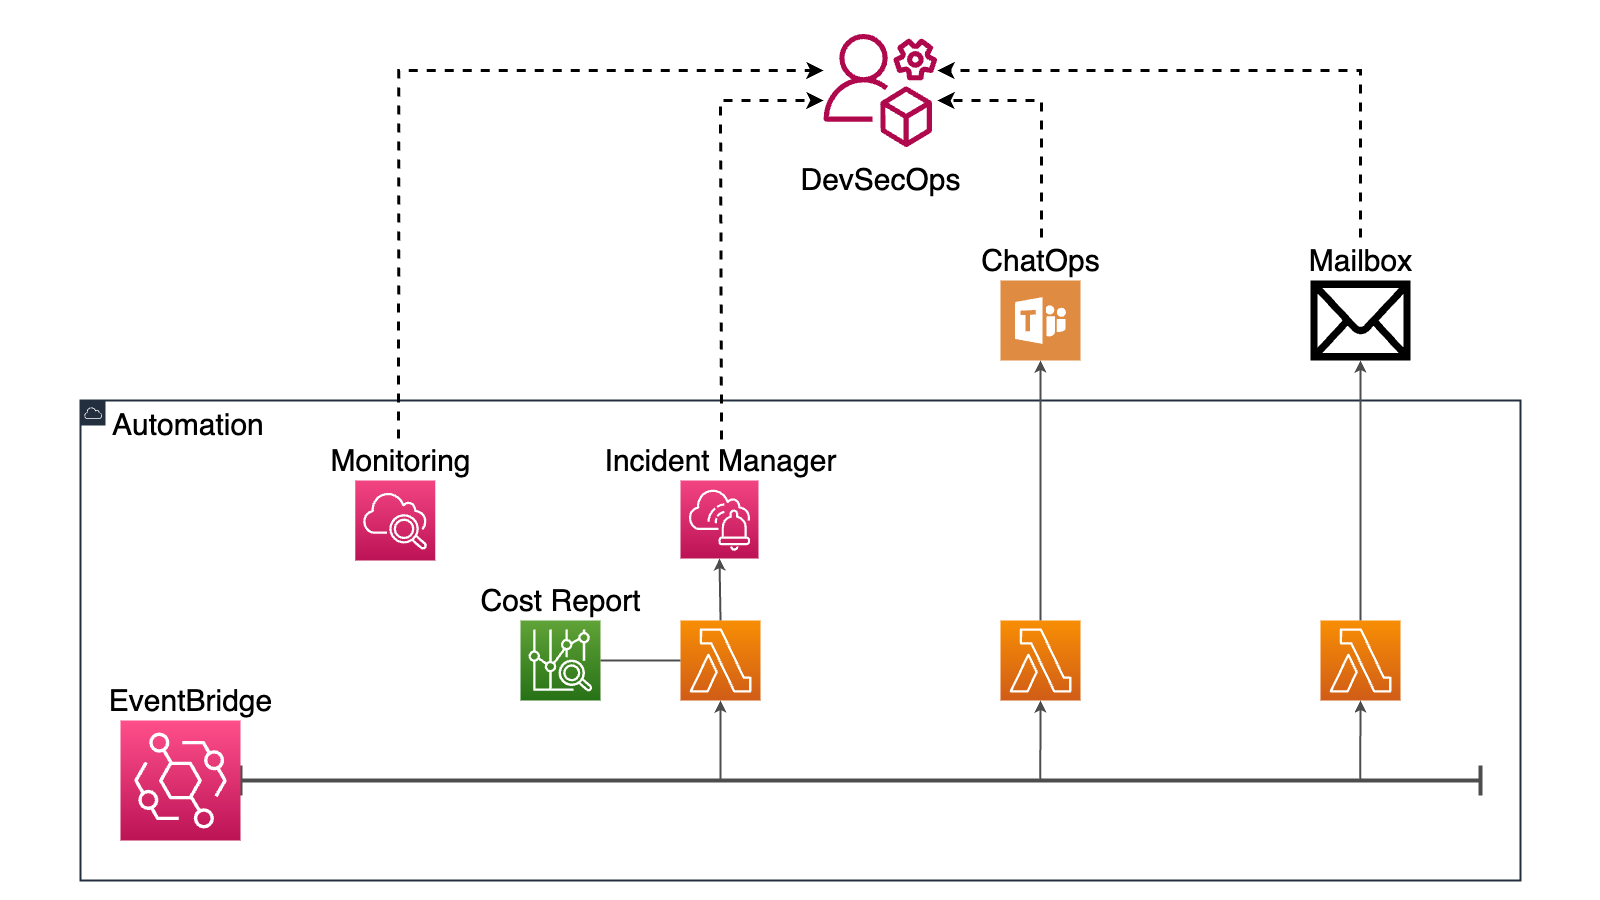
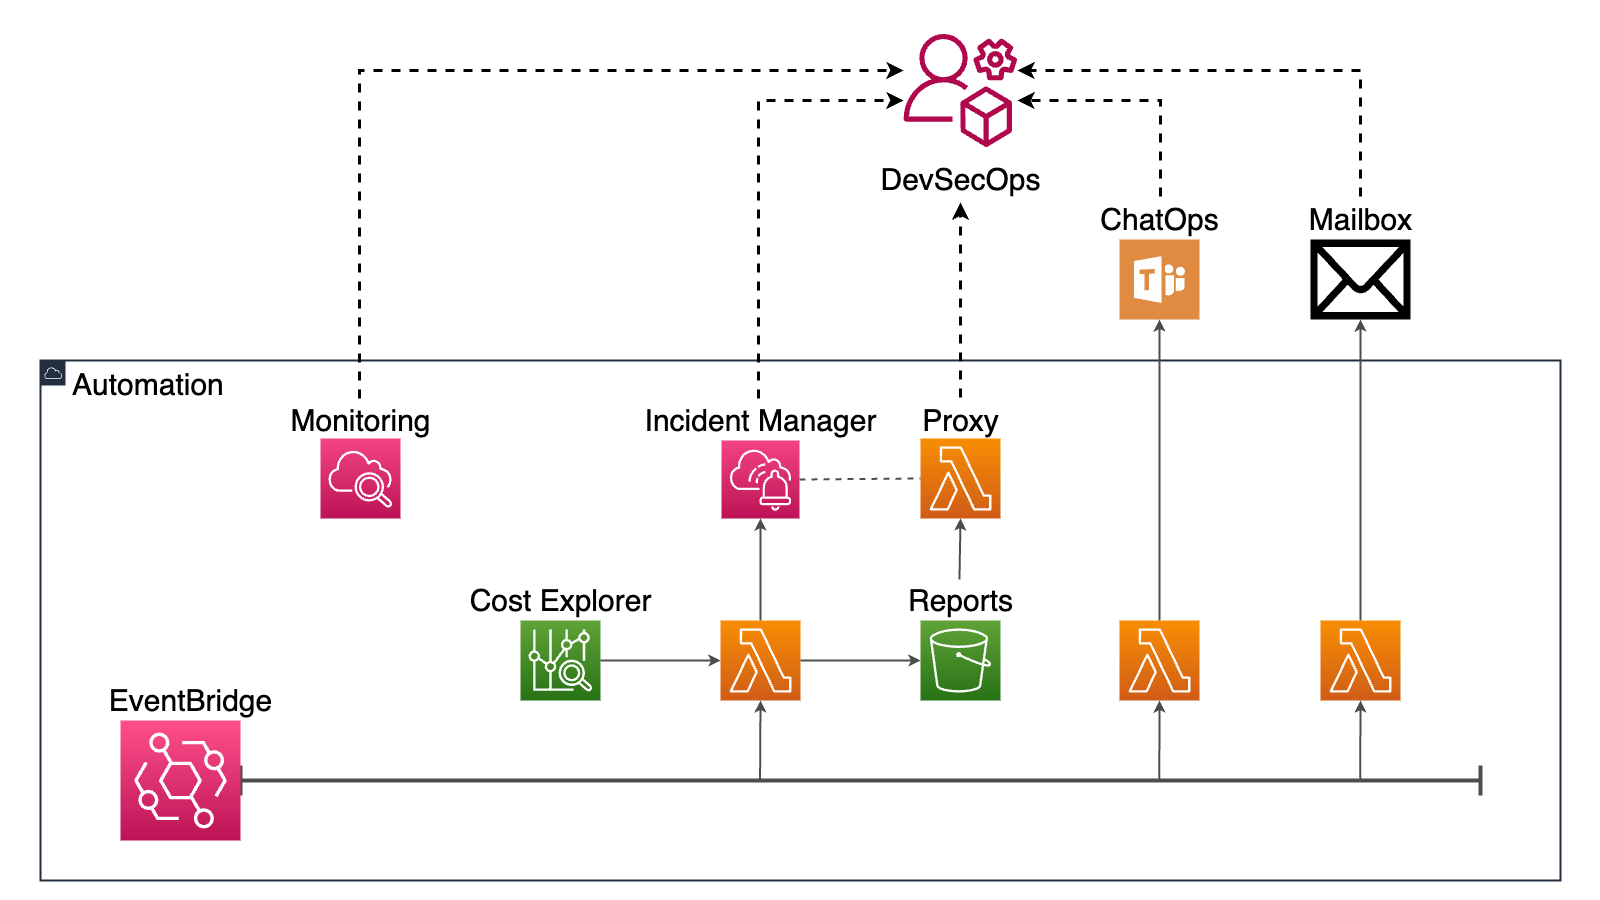
refine feature file and architectural diagram for the management of exceptions -- #76

diff --git a/resources/cockpit_construct.py b/resources/cockpit_construct.py
@@ -40,9 +40,10 @@ class Cockpit(Construct):
             self.get_text_label_widget())
 
         self.cockpit.add_widgets(
-            self.get_transactions_by_label_widget(),
+            self.get_transactions_by_cost_center_widget(),
             self.get_maintenance_transactions_by_account_widget(),
-            self.get_onboarding_transactions_by_account_widget())
+            self.get_onboarding_transactions_by_account_widget(),
+            self.get_exceptions_by_label_widget())
 
         self.cockpit.add_widgets(
             self.get_events_by_state_widget(),
@@ -58,6 +59,13 @@ class Cockpit(Construct):
         return TextWidget(markdown=toggles.automation_cockpit_markdown_text,
                           height=2,
                           width=24)
+
+    BASIC_TEMPLATE = "SEARCH('{SustainablePersonalAccount, Environment} Environment=""___environment___"" MetricName=""___metric___""', 'Sum', 60)"
+
+    def get_basic_expression(self, environment=None, metric=None):
+        environment = environment or toggles.environment_identifier
+        metric = metric or "ExceptionsByLabel"
+        return self.BASIC_TEMPLATE.replace('___environment___', environment).replace('___metric___', metric)
 
     SEARCH_TEMPLATE = "SEARCH('{SustainablePersonalAccount, ___by___, Environment} Environment=""___environment___"" MetricName=""___metric___""', 'Sum', 60)"
 
@@ -76,7 +84,7 @@ class Cockpit(Construct):
                 using_metrics={})],
             stacked=True,
             height=6,
-            width=9)
+            width=6)
 
     def get_onboarding_transactions_by_account_widget(self):
         return GraphWidget(
@@ -88,14 +96,26 @@ class Cockpit(Construct):
                 using_metrics={})],
             stacked=True,
             height=6,
-            width=9)
+            width=6)
 
-    def get_transactions_by_label_widget(self):
+    def get_transactions_by_cost_center_widget(self):
         return GraphWidget(
-            title="Transactions by label",
+            title="Transactions by cost center",
             left=[MathExpression(
                 label='transaction',
-                expression=self.get_search_expression(by='Label', metric='TransactionByLabel'),
+                expression=self.get_search_expression(by='CostCenter', metric='TransactionByCostCenter'),
+                period=Duration.minutes(1),
+                using_metrics={})],
+            stacked=True,
+            height=6,
+            width=6)
+
+    def get_exceptions_by_label_widget(self):
+        return GraphWidget(
+            title="Exceptions by label",
+            left=[MathExpression(
+                label='incident',
+                expression=self.get_search_expression(by='Label', metric='ExceptionsByLabel'),
                 period=Duration.minutes(1),
                 using_metrics={})],
             stacked=True,

diff --git a/code/on_exception_handler.py b/code/on_exception_handler.py
@@ -40,7 +40,7 @@ SUMMARY_TEMPLATE = "# {}\n\n{}"  # markdown is supported
 def handle_exception(event, context=None, session=None):
     logging.debug(event)
     input = Events.decode_spa_event(event)
-    incident_arn = start_incident(payload=input.payload, session=session)
+    incident_arn = start_incident(label=input.label, payload=input.payload, session=session)
     tag_incident(incident_arn=incident_arn, payload=input.payload, session=session)
     attach_cost_report(incident_arn=incident_arn, payload=input.payload, session=session)
     put_metric_data(name='ExceptionsByLabel',
@@ -56,7 +56,7 @@ def handle_attachment_request(event, context=None):  # web proxy to attachments 
     return download_attachment(path=event.get('rawPath', '/'))
 
 
-def start_incident(payload, session=None):
+def start_incident(label, payload, session=None):
     logging.info(f"Starting incident '{payload}'")
     title = payload.get('title', '*no title*')
     session = session or Session()
@@ -66,6 +66,7 @@ def start_incident(payload, session=None):
                                         responsePlanArn=os.environ['RESPONSE_PLAN_ARN'])
     summary = SUMMARY_TEMPLATE.format(title, payload.get('message', '*no message*')).replace('\n', '  \n')  # force newlines in markdown
     incidents.update_incident_record(arn=response['incidentRecordArn'], summary=summary)
+    incidents.tag_resource(resourceArn=response['incidentRecordArn'], tags={'exception': label})
     logging.debug("Done")
     return response['incidentRecordArn']
 
